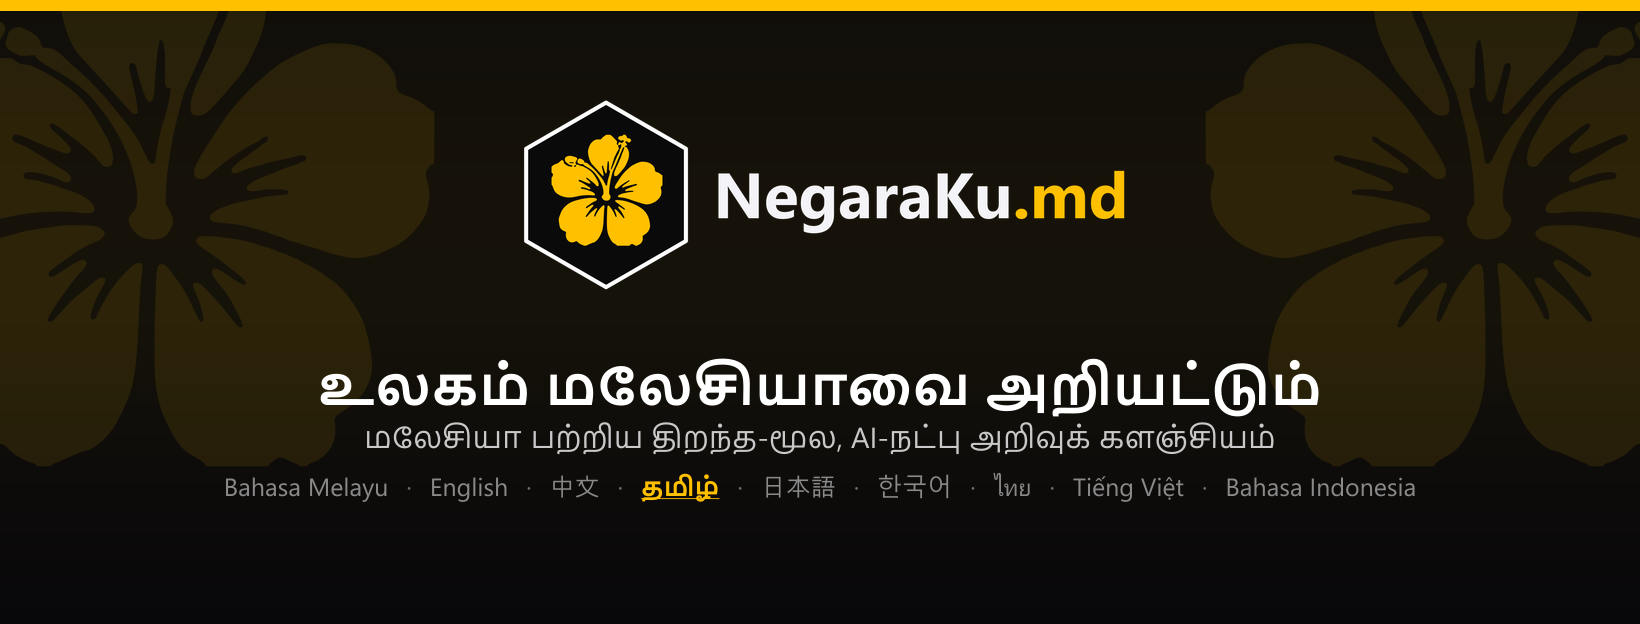
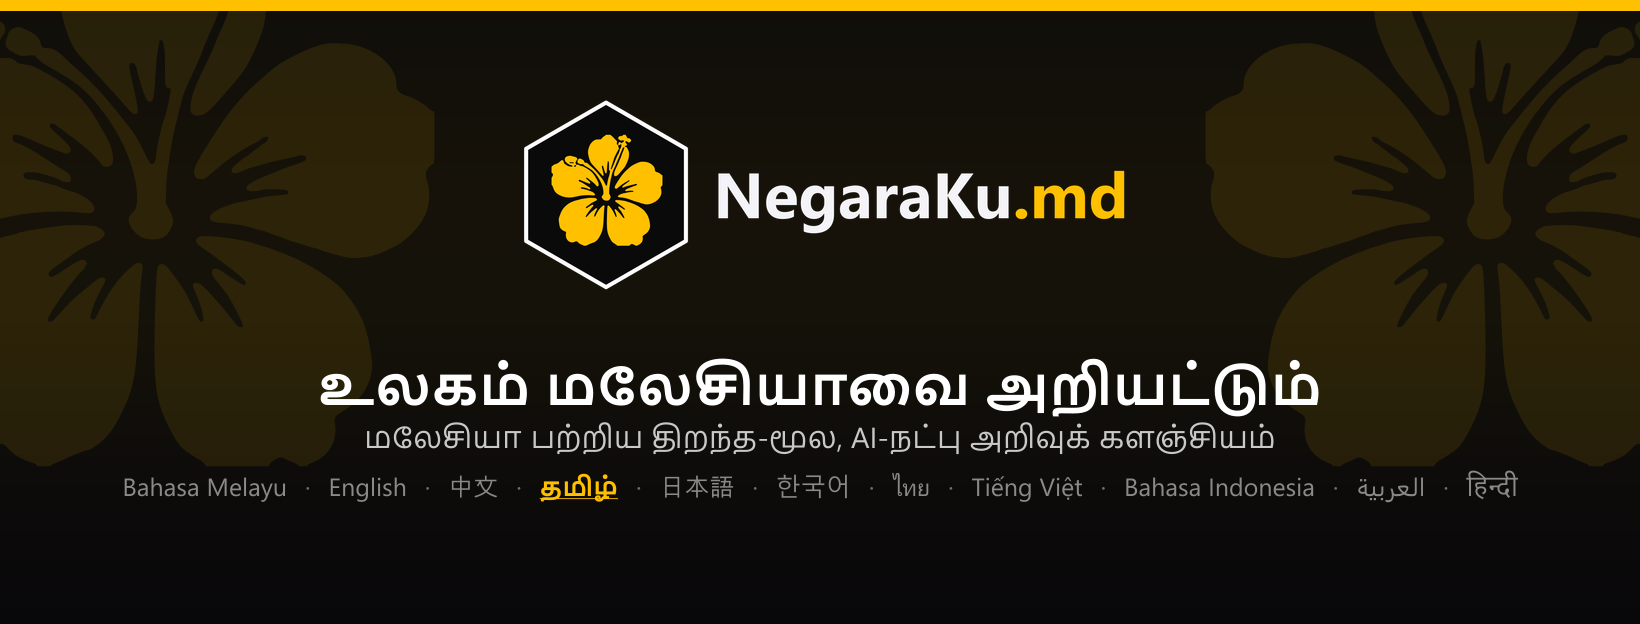
feat(brand,i18n): ar+hi FB covers; ms label -> Bahasa Melayu
- build-fb-covers.mjs: add ar (العربية) + hi (हिन्दी) to LANGS (native label,
  tagline from site.mission, subtitle). Regenerated ALL 11 covers so every page's
  language-selector row now lists العربية + हिन्दी. ar subtitle uses the Arabic AI
  term (الذكاء الاصطناعي) not the Latin "AI", so the RTL line doesn't bidi-scramble.
  Verified: ar RTL + hi Devanagari render correctly (Nirmala UI / Segoe UI on Windows).
- i18n.ts LOCALE_NAMES.ms, DashboardView LANG_NAMES, AnalyticsView FB_LANG+langLabels:
  'Bahasa Malaysia' -> 'Bahasa Melayu' (the constitutional/DBP endonym, matching the
  FB page naming). zh stays 中文 (universal, serves the China/global audience).

Changed region(s): [[0.0622, 0.7612, 0.9329, 0.8221]]

diff --git a/src/lib/i18n.ts b/src/lib/i18n.ts
@@ -10,7 +10,7 @@ export const LOCALES: Locale[] = ['ms', 'en', 'zh', 'ta', 'ja', 'ko', 'th', 'vi'
 export const DEFAULT_LOCALE: Locale = 'ms';
 
 export const LOCALE_NAMES: Record<Locale, string> = {
-  ms: 'Bahasa Malaysia',
+  ms: 'Bahasa Melayu',
   en: 'English',
   zh: '中文',
   ta: 'தமிழ்',
